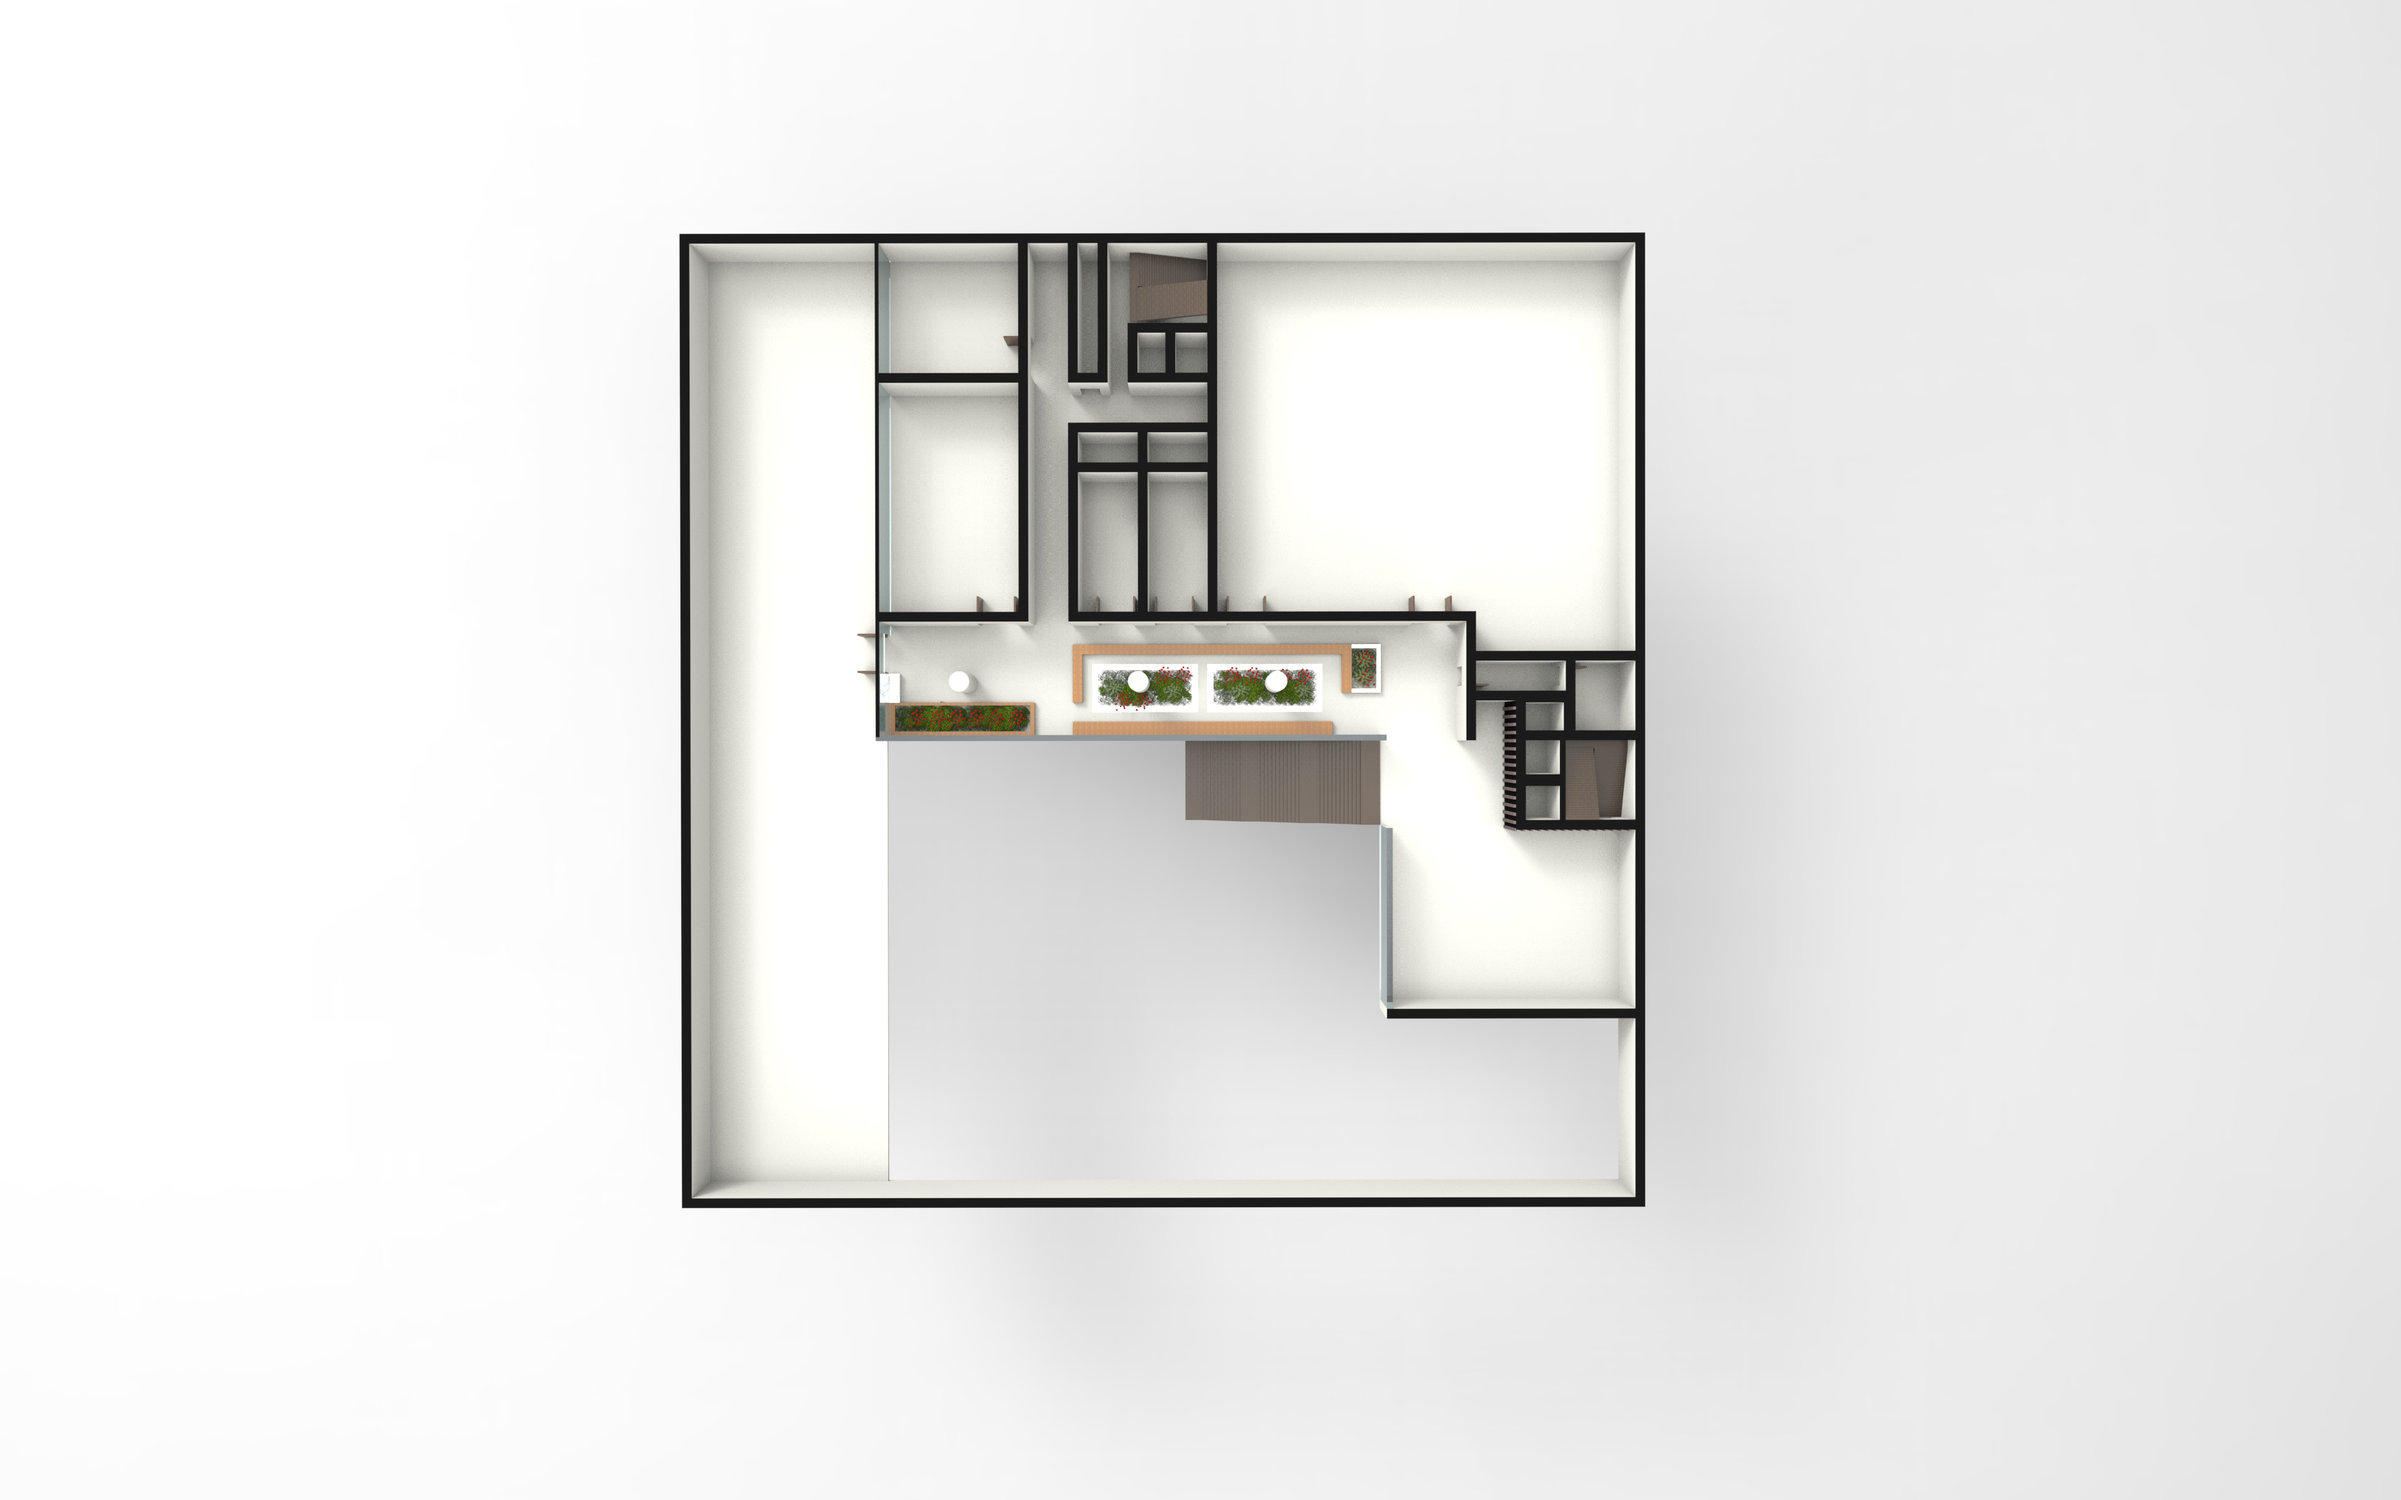
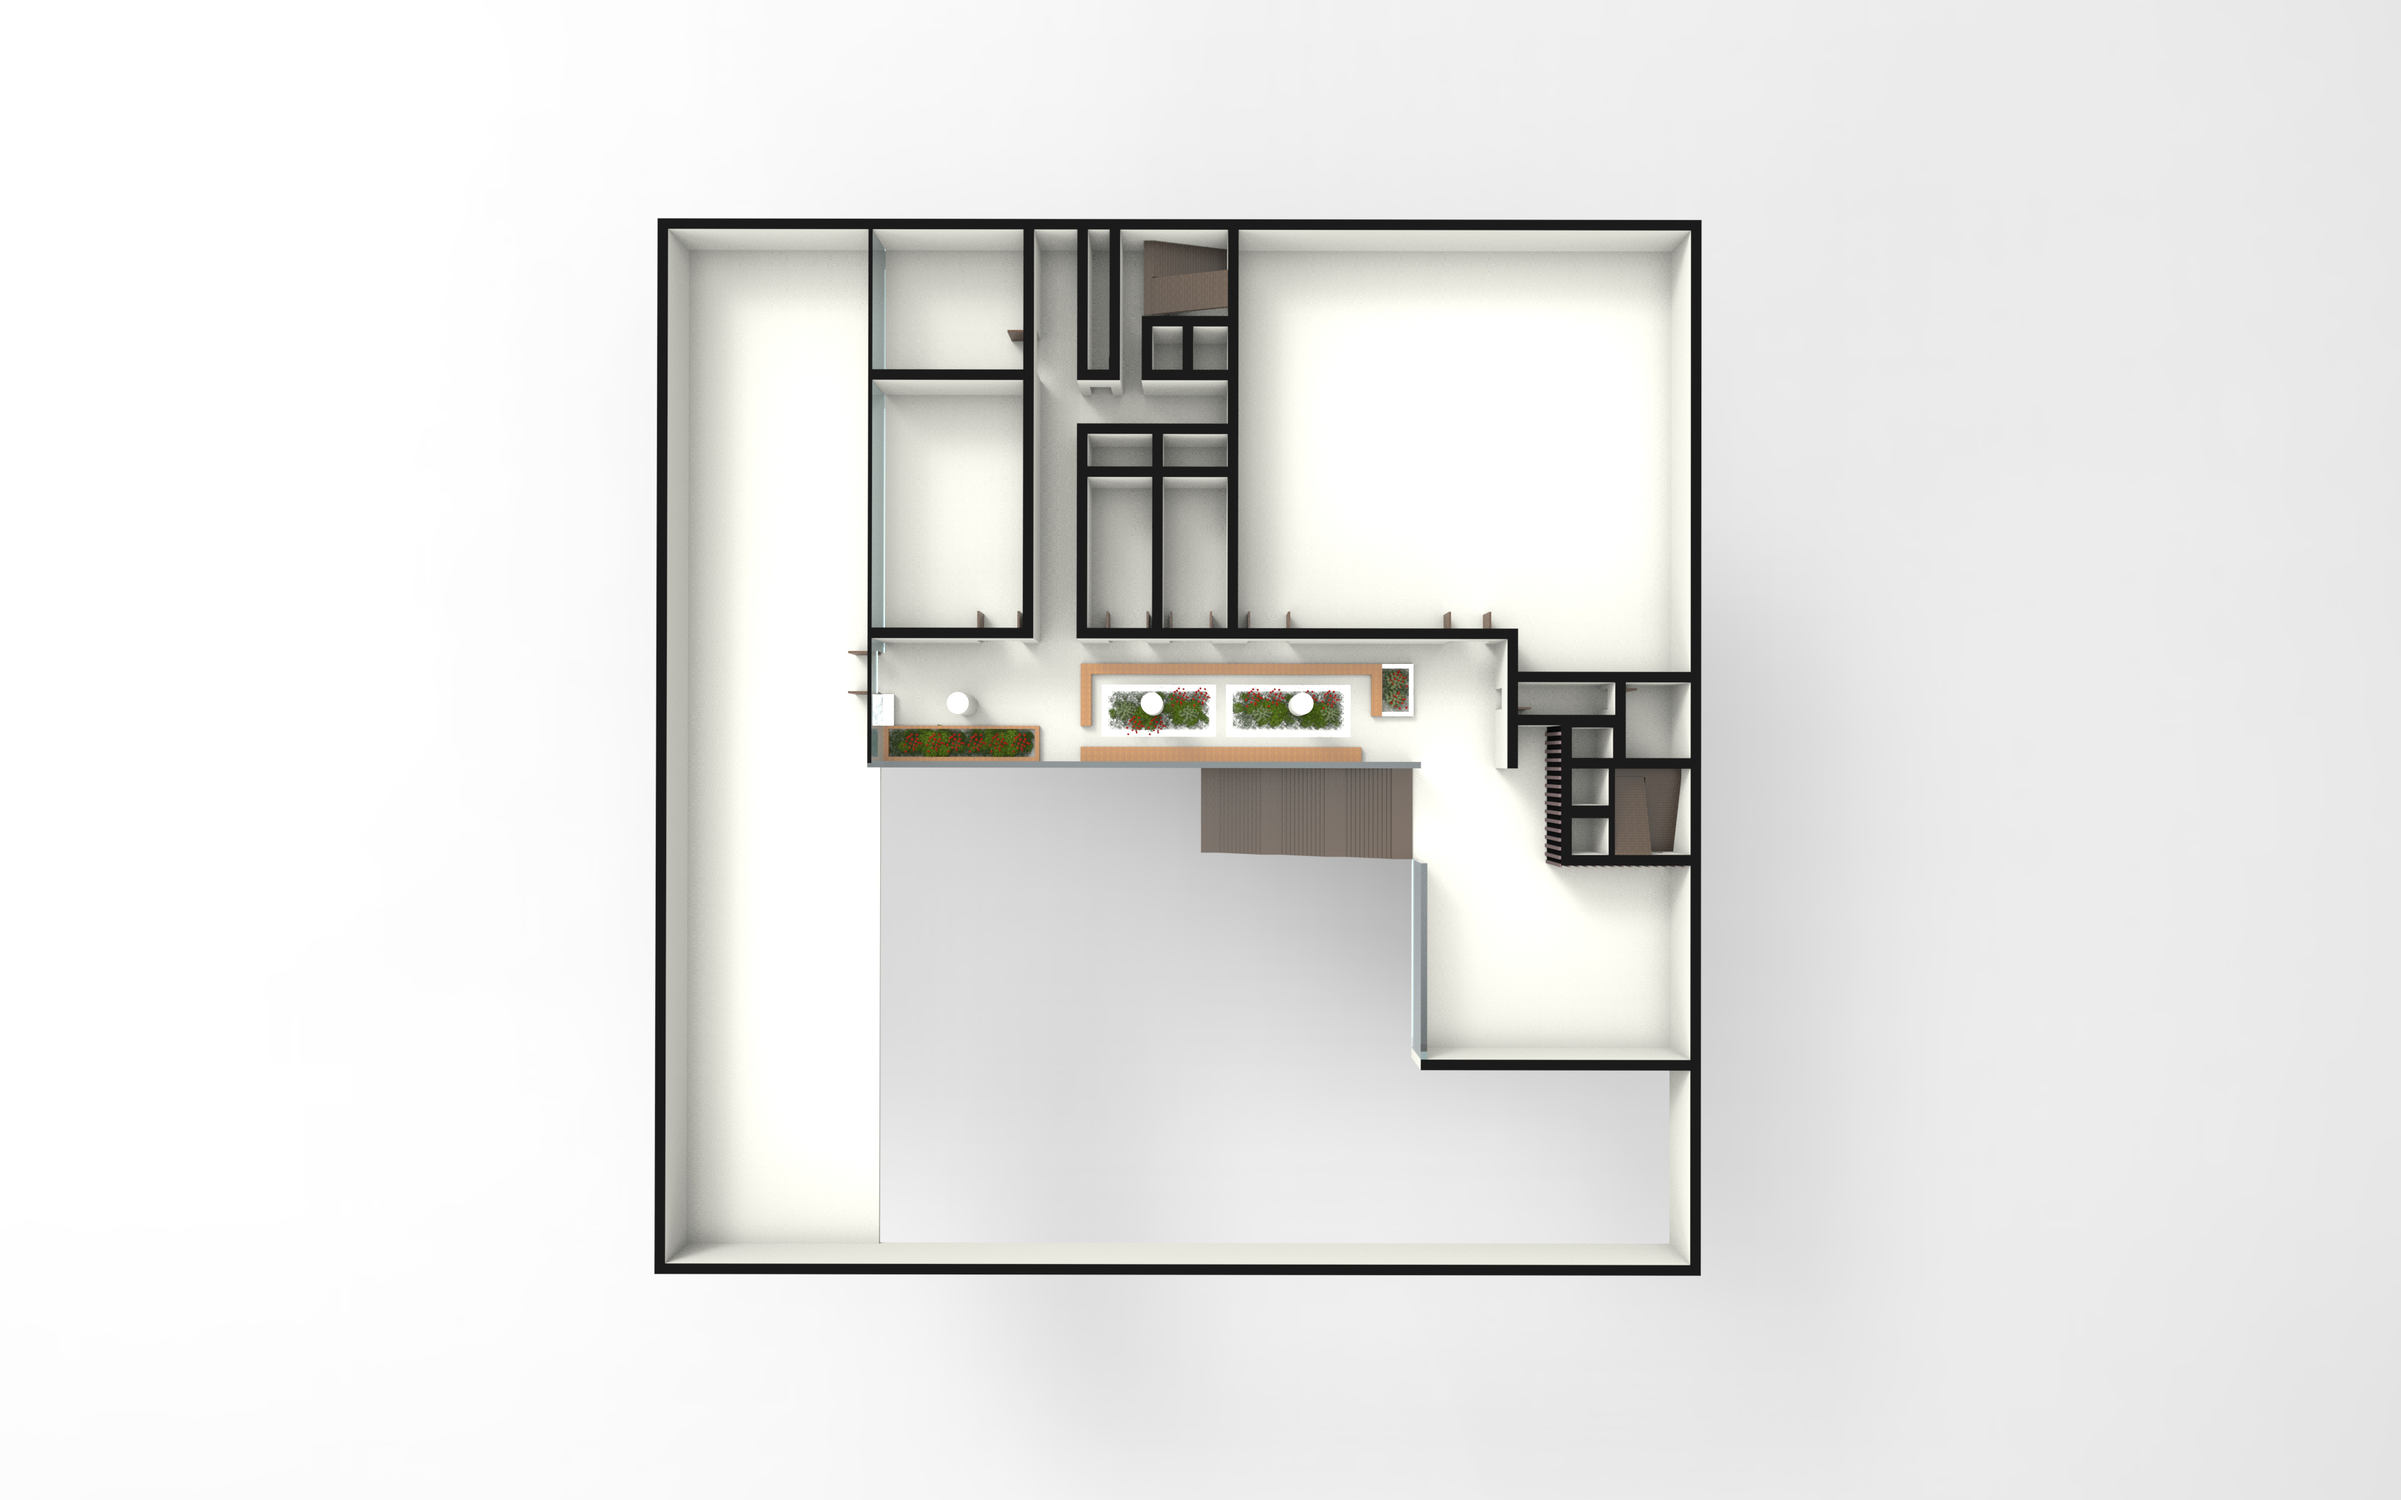
commit

Changed region(s): [[0.2491, 0.1244, 0.7163, 0.8706]]

diff --git a/css/sub.css b/css/sub.css
@@ -935,13 +935,13 @@ font-family: 'Pretendard', sans-serif; font-weight: 600;}
 /* 청사안내도 - 외관 */
 .cityHallGuideBox .guideMapBox .guideMapMainImage .location110{top:690px; left: 697px;}
 .cityHallGuideBox .guideMapBox .guideMapMainImage .location111{top:876px; left: 1015px;}
-.cityHallGuideBox .guideMapBox .guideMapMainImage .location112{top:792px; left: 1405px; }
+.cityHallGuideBox .guideMapBox .guideMapMainImage .location112{top:806px; left: 1359px; }
 .cityHallGuideBox .guideMapBox .guideMapMainImage .location113{top:1021px; left: 846px;}
-.cityHallGuideBox .guideMapBox .guideMapMainImage .location114{bottom:492px; left: 1361px;}
-.cityHallGuideBox .guideMapBox .guideMapMainImage .location115{bottom:593px; left: 1263px;}
-.cityHallGuideBox .guideMapBox .guideMapMainImage .location116{bottom:751px; left: 1363px;}
-.cityHallGuideBox .guideMapBox .guideMapMainImage .location117{bottom:1170px; right: 736px;}
-.cityHallGuideBox .guideMapBox .guideMapMainImage .location118{top:347px; left: 1045px;}
+.cityHallGuideBox .guideMapBox .guideMapMainImage .location114{bottom:525px; left: 1522px;}
+.cityHallGuideBox .guideMapBox .guideMapMainImage .location115{bottom:610px; left: 1340px;}
+.cityHallGuideBox .guideMapBox .guideMapMainImage .location116{bottom:772px; left: 1374px;}
+.cityHallGuideBox .guideMapBox .guideMapMainImage .location117{bottom:1180px; right: 829px;}
+.cityHallGuideBox .guideMapBox .guideMapMainImage .location118{top:368px; left: 979px;}
 
 /* 청사안내도 - 1층 */
 .cityHallGuideBox .guideMapBox .guideMapImage .location01{top: 372px; right: 583px;}
@@ -975,22 +975,22 @@ font-family: 'Pretendard', sans-serif; font-weight: 600;}
 .cityHallGuideBox .guideMapBox .guideMapImage .arrow.arrow08{left: 1227px; bottom: 310px;}
 
 /* 청사안내도 - 2층 */
-.cityHallGuideBox .guideMapBox .guideMapImage .location14{top:433px; left: 1666px;}
-.cityHallGuideBox .guideMapBox .guideMapImage .location15{top:433px; left: 1450px;}
-.cityHallGuideBox .guideMapBox .guideMapImage .location16{top:534px; left: 1218px;}
-.cityHallGuideBox .guideMapBox .guideMapImage .location17{bottom:1194px; left: 1009px;}
+.cityHallGuideBox .guideMapBox .guideMapImage .location14{top:433px; left: 1732px;}
+.cityHallGuideBox .guideMapBox .guideMapImage .location15{top:433px; left: 1513px;}
+.cityHallGuideBox .guideMapBox .guideMapImage .location16{top:528px; left: 1238px;}
+.cityHallGuideBox .guideMapBox .guideMapImage .location17{bottom:1194px; left: 1020px;}
 .cityHallGuideBox .guideMapBox .guideMapImage .location18{top: 262px; left: 1000px;}
-.cityHallGuideBox .guideMapBox .guideMapImage .location96{ bottom: 1109px; right:1412px;}
-.cityHallGuideBox .guideMapBox .guideMapImage .location97{ bottom: 967px; right:1106px;}
-.cityHallGuideBox .guideMapBox .guideMapImage .location98{ bottom:563px; right:825px;}
-.cityHallGuideBox .guideMapBox .guideMapImage .location99{ top: 772px; left:800px;}
+.cityHallGuideBox .guideMapBox .guideMapImage .location96{ bottom: 1115px; right:1396px;}
+.cityHallGuideBox .guideMapBox .guideMapImage .location97{ bottom: 927px; right:1067px;}
+.cityHallGuideBox .guideMapBox .guideMapImage .location98{ bottom:503px; right:789px;}
+.cityHallGuideBox .guideMapBox .guideMapImage .location99{ top: 772px; left:776px;}
 .cityHallGuideBox .guideMapBox .guideMapImage .restroom04{top:453px; left: 1242px;}
-.cityHallGuideBox .guideMapBox .guideMapImage .display04{top:227px; left:1309px;}
-.cityHallGuideBox .guideMapBox .guideMapImage .display05{top:348px; left:1286px;}
-.cityHallGuideBox .guideMapBox .guideMapImage .display06{top:751px; right:883px;}
-.cityHallGuideBox .guideMapBox .guideMapImage .display07{top:805px; right:797px;}
-.cityHallGuideBox .guideMapBox .guideMapImage .display52{top:875px; right: 1102px;}
-.cityHallGuideBox .guideMapBox .guideMapImage .arrow.arrow09{bottom:670px; right:766px;}
+.cityHallGuideBox .guideMapBox .guideMapImage .display04{top:216px; left:1318px;}
+.cityHallGuideBox .guideMapBox .guideMapImage .display05{top:325px; left:1309px;}
+.cityHallGuideBox .guideMapBox .guideMapImage .display06{top:793px; right:774px;}
+.cityHallGuideBox .guideMapBox .guideMapImage .display07{top:830px; right:728px;}
+.cityHallGuideBox .guideMapBox .guideMapImage .display52{top:924px; right: 1079px;}
+.cityHallGuideBox .guideMapBox .guideMapImage .arrow.arrow09{bottom:611px; right:690px;}
 
 /* 청사안내도 - 3층 */
 .cityHallGuideBox .guideMapBox .guideMapImage .location19{bottom:450px; right: 831px;}
@@ -1017,7 +1017,7 @@ font-family: 'Pretendard', sans-serif; font-weight: 600;}
 .cityHallGuideBox .guideMapBox .guideMapImage .location31{bottom:410px; right: 792px;}
 .cityHallGuideBox .guideMapBox .guideMapImage .location32{bottom:391px; left: 1279px;}
 .cityHallGuideBox .guideMapBox .guideMapImage .location33{top:236px; left: 1616px;}
-.cityHallGuideBox .guideMapBox .guideMapImage .location34{bottom:481px; left: 721px;}
+.cityHallGuideBox .guideMapBox .guideMapImage .location34{bottom:444px; left: 721px;}
 .cityHallGuideBox .guideMapBox .guideMapImage .location35{top: 850px; left: 785px;}
 .cityHallGuideBox .guideMapBox .guideMapImage .location36{top: 650px; left: 785px;}
 .cityHallGuideBox .guideMapBox .guideMapImage .location37{top: 330px; left: 750px;}
